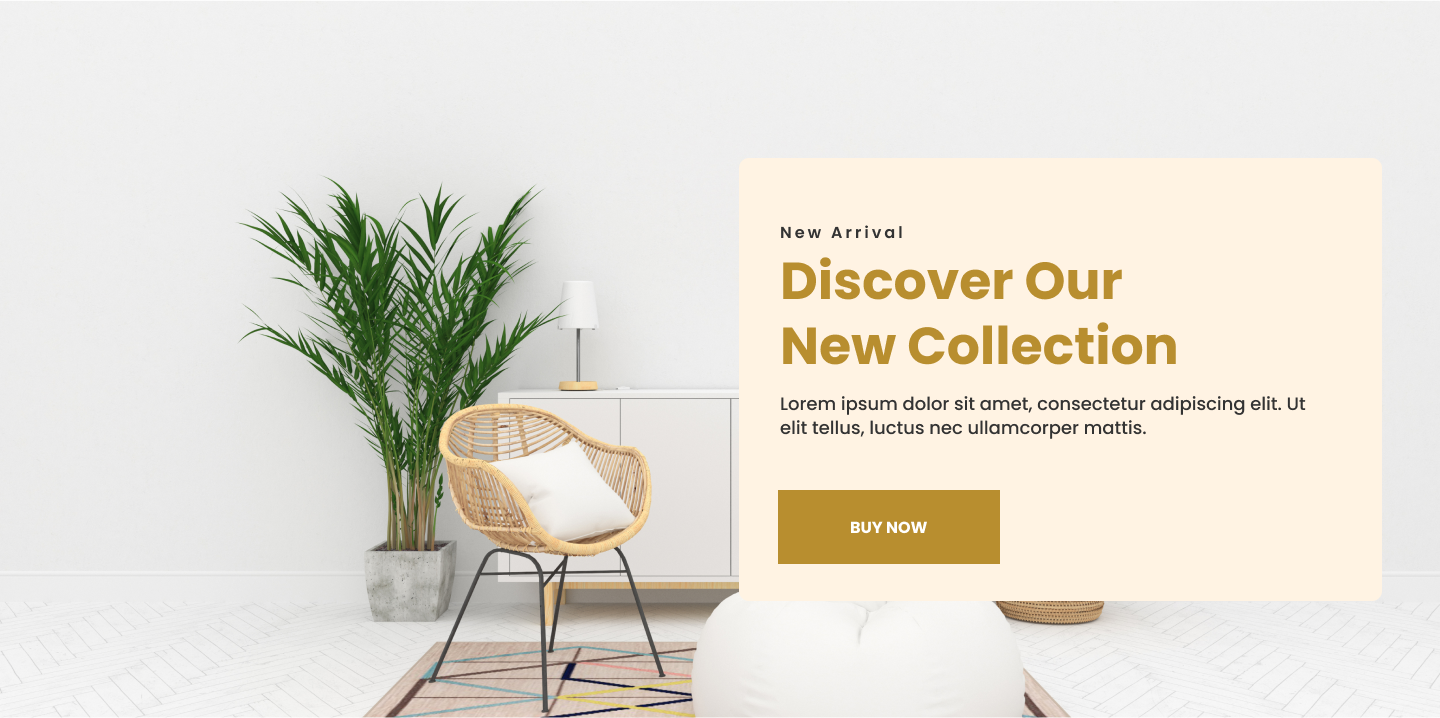
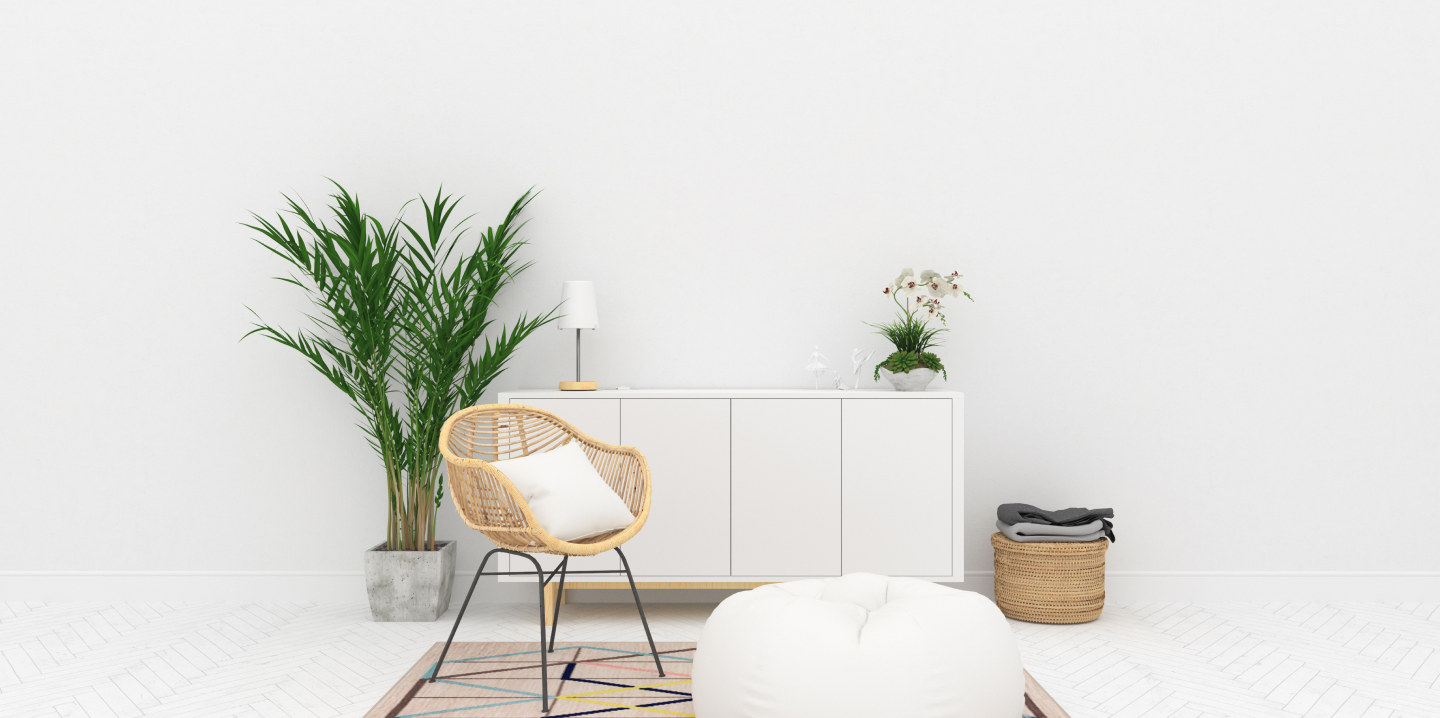
Initial commit

Changed region(s): [[0.5, 0.3677, 0.9062, 0.8579], [0.5312, 0.3064, 0.625, 0.337]]

diff --git a/src/app/(layout)/page.jsx b/src/app/(layout)/page.jsx
@@ -1,0 +1,19 @@
+import "../(layout)/style.css";
+
+export default function Home() {
+  return (
+    <div className="home-hero-bg relative">
+      <div className="bg-[#FFF3E3] pt-[62px] pb-[37px] w-[643px] pl-[39px] rounded-[10px] absolute top-[153px] right-[58px]">
+        <h3 className="font-semibold text-[16px] leading-[24px] text-[#333333]">
+          New Arrival
+        </h3>
+        <h2 className="mt-[4px] mb-[17px] w-[440px] font-bold text-[52px] leading-[65px] text-[#B88E2F]">Discover Our New Collection</h2>
+        <p className="mb-[46px] w-[507px] font-medium text-[18px] leading-[24px]">
+          Lorem ipsum dolor sit amet, consectetur adipiscing elit. Ut elit
+          tellus, luctus nec ullamcorper mattis.
+        </p>
+        <button className="font-bold text-[16px] leading-[24px] py-[24px] px-[72px] bg-[#B88E2F] uppercase text-white">BUY Now</button>
+      </div>
+    </div>
+  );
+}

diff --git a/src/app/(layout)/shop/page.jsx b/src/app/(layout)/shop/page.jsx
@@ -1,10 +1,16 @@
 import Image from "next/image";
-import React from "react";
-import ShopImg from "../../images/shop.png"
+import "../../(layout)/style.css"
+import HeroLogo from "../../images/hero-logo.svg";
 const Shop = () => {
   return (
-    <Image src={ShopImg} alt="Image" className="w-screen"/>
-  )
+    <div className="hero-bg flex flex-col">
+      <Image src={HeroLogo} alt="Hero Logo" width={77} height={77} />
+      <h2 className="font-medium text-[48px] leading-[72px]">Shop</h2>
+      <h3 className="font-medium text-[20px] leading-[24px]">
+        Home <span className="font-light text-[20px] leading-[24px]">Shop</span>
+      </h3>
+    </div>
+  );
 };
 
 export default Shop;

diff --git a/src/app/(layout)/contact/page.jsx b/src/app/(layout)/contact/page.jsx
@@ -1,9 +1,13 @@
-import React from "react";
-import ContactImg from "../../images/contact.png"
 import Image from "next/image";
+import "../../(layout)/style.css"
+import HeroLogo from "../../images/hero-logo.svg"
 const Contact = () => {
   return (
-    <Image src={ContactImg} alt="Image" className="w-screen"/>
+    <div className="hero-bg flex flex-col">
+      <Image src={HeroLogo} alt="Hero Logo" width={77} height={77}/>
+      <h2 className="font-medium text-[48px] leading-[72px]">Contact</h2>
+      <h3 className="font-medium text-[20px] leading-[24px]">Home  <span className="font-light text-[20px] leading-[24px]">Contact</span></h3>
+    </div>
   )
 };
 

diff --git a/src/app/(layout)/blog/page.jsx b/src/app/(layout)/blog/page.jsx
@@ -1,9 +1,13 @@
 import Image from "next/image";
-import React from "react";
-import BlogImg from "../../images/blog.png"
+import "../../(layout)/style.css"
+import HeroLogo from "../../images/hero-logo.svg"
 const Blog = () => {
   return (
-    <Image src={BlogImg} alt="Image" className="w-screen"/>
+    <div className="hero-bg flex flex-col">
+      <Image src={HeroLogo} alt="Hero Logo" width={77} height={77}/>
+      <h2 className="font-medium text-[48px] leading-[72px]">Blog</h2>
+      <h3 className="font-medium text-[20px] leading-[24px]">Home  <span className="font-light text-[20px] leading-[24px]">Blog</span></h3>
+    </div>
   )
 };
 

diff --git a/src/app/(layout)/style.css b/src/app/(layout)/style.css
@@ -1,0 +1,17 @@
+.home-hero-bg {
+    background-image: url('../images/Home-img.png');
+    background-size: cover;
+    background-position: center;
+    height: 100vh; 
+}
+
+.hero-bg {
+    background-image: url('../images/shop.png');
+    background-size: cover;
+    object-fit: cover;
+    background-position: center;
+    height: 80vh; 
+    display: flex;
+    justify-content: center;
+    align-items: center;
+}

diff --git a/src/app/globals.css b/src/app/globals.css
@@ -1,3 +1,4 @@
 @tailwind base;
 @tailwind components;
 @tailwind utilities;
+
